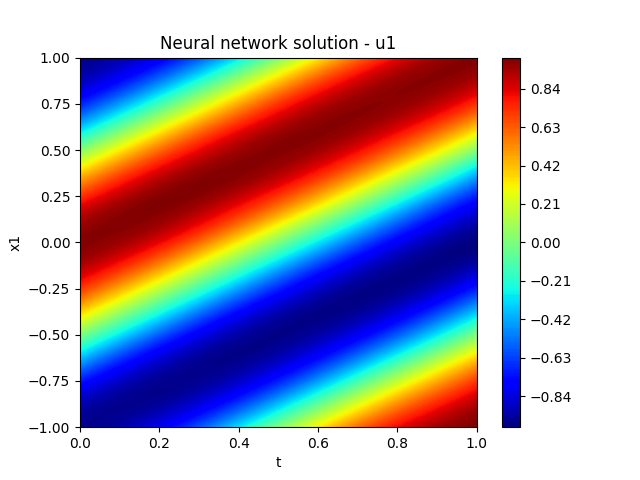
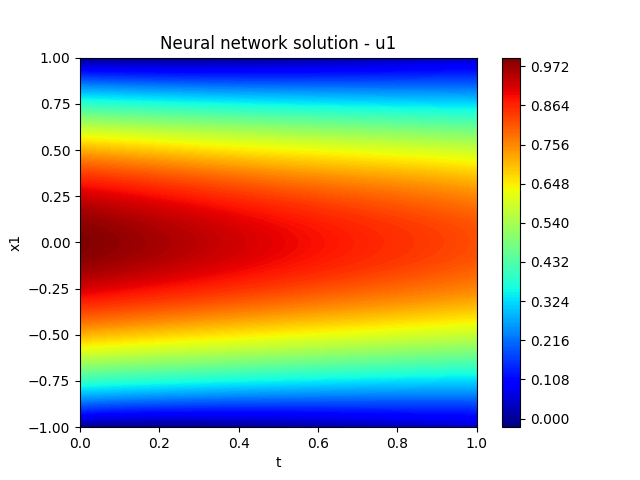
system additions

diff --git a/src/pinnde/plotters/plottersPinnPredictions.py b/src/pinnde/plotters/plottersPinnPredictions.py
@@ -41,21 +41,36 @@ def plot_solution_prediction_time1D(model):
 def plot_solution_prediction_2D(model):
     network = model.get_network()
     domain = model.get_domain()
+    eqns = model.get_eqns()
     
     X1, X2 = np.meshgrid(np.linspace(domain.get_min_dim_vals()[0], domain.get_max_dim_vals()[0], 200), 
                          np.linspace(domain.get_min_dim_vals()[1], domain.get_max_dim_vals()[1], 200), indexing='ij')
     
     sols = network([np.expand_dims(X1.flatten(), axis=1), np.expand_dims(X2.flatten(), axis=1)])
-    sols = np.reshape(sols, (200, 200))
 
-    plt.figure()
-    plt.contourf(X1, X2, sols, 200, cmap=plt.cm.jet)
-    plt.title('Neural network solution')
-    plt.xlabel('x1')
-    plt.ylabel('x2')
-    plt.colorbar()
-    plt.savefig("PDE-solution-pred")
-    plt.clf()
+    if len(eqns) == 1:
+        sols = np.reshape(sols, (200, 200))
+
+        plt.figure()
+        plt.contourf(X1, X2, sols, 200, cmap=plt.cm.jet)
+        plt.title('Neural network solution')
+        plt.xlabel('x1')
+        plt.ylabel('x2')
+        plt.colorbar()
+        plt.savefig("PDE-solution-pred")
+        plt.clf()
+    
+    elif len(eqns) > 1:
+        for e in range(len(eqns)):
+            globals()[f"sols{e+1}"] = np.reshape(sols[e], (200, 200))
+            plt.figure()
+            plt.contourf(X1, X2, globals()[f"sols{e+1}"], 200, cmap=plt.cm.jet)
+            plt.title(f'Neural network solution - u{e+1}')
+            plt.xlabel('x1')
+            plt.ylabel('x2')
+            plt.colorbar()
+            plt.savefig(f"PDE-solution-pred-u{e+1}")
+            plt.clf()
     return
 
 # def plot_solution_prediction_time2D(model):
@@ -148,50 +163,100 @@ def plot_solution_prediction_time2D(model):
     mask = np.array([domain.isInside(pt) for pt in points])
     mask = mask.reshape(X1.shape)
 
-    max_val = -np.inf
-    min_val = np.inf
-    sols = []
-    
-    for i in range(4):
-        # Get predictions
-        t = np.full_like(X1.flatten(), intervals[i])
-        sol_pred = network([t[:, None], 
-                           X1.flatten()[:, None], 
-                           X2.flatten()[:, None]])
-        sol_pred = sol_pred.numpy().reshape(X1.shape)
+    if len(eqns) == 1:
+        max_val = -np.inf
+        min_val = np.inf
+        sols = []
         
-        # Apply domain mask
-        sol_pred[~mask] = np.nan  # Mask outside domain
+        for i in range(4):
+            # Get predictions
+            t = np.full_like(X1.flatten(), intervals[i])
+            sol_pred = network([t[:, None], 
+                            X1.flatten()[:, None], 
+                            X2.flatten()[:, None]])
+            sol_pred = sol_pred.numpy().reshape(X1.shape)
+            
+            # Apply domain mask
+            sol_pred[~mask] = np.nan  # Mask outside domain
+            
+            sols.append(sol_pred)
+            current_max = np.nanmax(sol_pred)
+            current_min = np.nanmin(sol_pred)
+            if current_max > max_val:
+                max_val = current_max
+            if current_min < min_val:
+                min_val = current_min
+
+        # Plotting setup
+        fig, axes = plt.subplots(2, 2, gridspec_kw={'hspace': 0.5, 'wspace': 0.4})
+        normalizer = Normalize(min_val, max_val)
+        im = cm.ScalarMappable(norm=normalizer, cmap=plt.cm.jet)
+
+        # Plot each time step
+        for i, ax in enumerate(axes.flat):
+            contour = ax.contourf(X1, X2, sols[i], 200, 
+                                cmap=plt.cm.jet, norm=normalizer)
+            ax.set_title(f"t={intervals[i]:.2f}")
+            ax.set_xlabel("x1")
+            ax.set_ylabel("x2")
+            ax.set_aspect('equal')
+            ax.set_xlim(domain.get_min_dim_vals()[0], domain.get_max_dim_vals()[0])
+            ax.set_ylim(domain.get_min_dim_vals()[1], domain.get_max_dim_vals()[1])
+
+        # Add colorbar and titles
+        fig.colorbar(im, ax=axes.ravel().tolist(), pad=0.08)
+        fig.suptitle('Neural network solution', fontsize=14, y=0.98)
+        fig.tight_layout(rect=[0, 0, 1, 0.92])
         
-        sols.append(sol_pred)
-        current_max = np.nanmax(sol_pred)
-        current_min = np.nanmin(sol_pred)
-        if current_max > max_val:
-            max_val = current_max
-        if current_min < min_val:
-            min_val = current_min
+        plt.savefig("PDE-solution-pred")
+        plt.clf()
 
-    # Plotting setup
-    fig, axes = plt.subplots(2, 2, gridspec_kw={'hspace': 0.5, 'wspace': 0.4})
-    normalizer = Normalize(min_val, max_val)
-    im = cm.ScalarMappable(norm=normalizer, cmap=plt.cm.jet)
+    elif len(eqns) > 1:
+        for e in range(len(eqns)):
+            max_val = -np.inf
+            min_val = np.inf
+            sols = []
+            
+            for i in range(4):
+                # Get predictions
+                t = np.full_like(X1.flatten(), intervals[i])
+                sol_pred = network([t[:, None], 
+                                X1.flatten()[:, None], 
+                                X2.flatten()[:, None]])[e]
+                sol_pred = sol_pred.numpy().reshape(X1.shape)
+                
+                # Apply domain mask
+                sol_pred[~mask] = np.nan  # Mask outside domain
+                
+                sols.append(sol_pred)
+                current_max = np.nanmax(sol_pred)
+                current_min = np.nanmin(sol_pred)
+                if current_max > max_val:
+                    max_val = current_max
+                if current_min < min_val:
+                    min_val = current_min
 
-    # Plot each time step
-    for i, ax in enumerate(axes.flat):
-        contour = ax.contourf(X1, X2, sols[i], 200, 
-                             cmap=plt.cm.jet, norm=normalizer)
-        ax.set_title(f"t={intervals[i]:.2f}")
-        ax.set_xlabel("x1")
-        ax.set_ylabel("x2")
-        ax.set_aspect('equal')
-        ax.set_xlim(domain.get_min_dim_vals()[0], domain.get_max_dim_vals()[0])
-        ax.set_ylim(domain.get_min_dim_vals()[1], domain.get_max_dim_vals()[1])
+            # Plotting setup
+            fig, axes = plt.subplots(2, 2, gridspec_kw={'hspace': 0.5, 'wspace': 0.4})
+            normalizer = Normalize(min_val, max_val)
+            im = cm.ScalarMappable(norm=normalizer, cmap=plt.cm.jet)
 
-    # Add colorbar and titles
-    fig.colorbar(im, ax=axes.ravel().tolist(), pad=0.08)
-    fig.suptitle('Neural network solution', fontsize=14, y=0.98)
-    fig.tight_layout(rect=[0, 0, 1, 0.92])
-    
-    plt.savefig("PDE-solution-pred")
-    plt.clf()
+            # Plot each time step
+            for i, ax in enumerate(axes.flat):
+                contour = ax.contourf(X1, X2, sols[i], 200, 
+                                    cmap=plt.cm.jet, norm=normalizer)
+                ax.set_title(f"t={intervals[i]:.2f}")
+                ax.set_xlabel("x1")
+                ax.set_ylabel("x2")
+                ax.set_aspect('equal')
+                ax.set_xlim(domain.get_min_dim_vals()[0], domain.get_max_dim_vals()[0])
+                ax.set_ylim(domain.get_min_dim_vals()[1], domain.get_max_dim_vals()[1])
+
+            # Add colorbar and titles
+            fig.colorbar(im, ax=axes.ravel().tolist(), pad=0.08)
+            fig.suptitle(f'Neural network solution - u{e+1}', fontsize=14, y=0.98)
+            fig.tight_layout(rect=[0, 0, 1, 0.92])
+            
+            plt.savefig(f"PDE-solution-pred-u{e+1}")
+            plt.clf()
     return

diff --git a/src/pinnde/training/pinnTrainSteps.py b/src/pinnde/training/pinnTrainSteps.py
@@ -3,6 +3,7 @@ import numpy as np
 import ast
 
 def trainStep(eqns, clps, bcs, network, boundary):
+    eqns = network.get_eqns()
     dim = boundary.get_domain().get_dim()
     bdry_type = boundary.get_bdry_type()
     bdry_components = boundary.get_domain().get_bdry_components()
@@ -28,19 +29,30 @@ def trainStep(eqns, clps, bcs, network, boundary):
             for col in bcs_group:
                 tape1.watch(col)
 
-            u = tf.cast(network(clps_group), tf.float32)
-    
-            for i in range(dim):
-                globals()[f"x{i+1}"] = tf.cast(clps_group[i], tf.float32)
-                globals()[f"ux{i+1}"] = tf.cast(tape1.gradient(u, clps_group[i]), tf.float32)
-                globals()[f"ux{i+1}x{i+1}"] = tf.cast(tape1.gradient(globals()[f"ux{i+1}"], clps_group[i]), tf.float32)
-                globals()[f"ux{i+1}x{i+1}x{i+1}"] = tf.cast(tape1.gradient(globals()[f"ux{i+1}x{i+1}"], clps_group[i]), tf.float32)
+            if len(eqns) == 1:
+                u = tf.cast(network(clps_group), tf.float32)
+                for i in range(dim):
+                    globals()[f"x{i+1}"] = tf.cast(clps_group[i], tf.float32)
+                    globals()[f"ux{i+1}"] = tf.cast(tape1.gradient(u, clps_group[i]), tf.float32)
+                    globals()[f"ux{i+1}x{i+1}"] = tf.cast(tape1.gradient(globals()[f"ux{i+1}"], clps_group[i]), tf.float32)
+                    globals()[f"ux{i+1}x{i+1}x{i+1}"] = tf.cast(tape1.gradient(globals()[f"ux{i+1}x{i+1}"], clps_group[i]), tf.float32)
+            
+            elif len(eqns) > 1:
+                for e in range(len(eqns)):
+                    globals()[f"u{e+1}"] = tf.cast(network(clps_group), tf.float32)[e]
+                    for i in range(dim):
+                        globals()[f"x{i+1}"] = tf.cast(clps_group[i], tf.float32)
+                        globals()[f"u{e+1}x{i+1}"] = tf.cast(tape1.gradient(globals()[f"u{e+1}"], clps_group[i]), tf.float32)
+                        globals()[f"u{e+1}x{i+1}x{i+1}"] = tf.cast(tape1.gradient(globals()[f"u{e+1}x{i+1}"], clps_group[i]), tf.float32)
+                        globals()[f"u{e+1}x{i+1}x{i+1}x{i+1}"] = tf.cast(tape1.gradient(globals()[f"u{e+1}x{i+1}x{i+1}"], clps_group[i]), tf.float32)
 
         CLPloss = 0
-        parse_tree = ast.parse(eqns[0], mode = "eval")
-        eqnparse = eval(compile(parse_tree, "<string>", "eval"))
-        CLPloss += tf.reduce_mean(tf.square(eqnparse))
-        CLPloss = tf.cast(CLPloss, tf.float32)
+        for e in range(len(eqns)):
+            parse_tree = ast.parse(eqns[e], mode = "eval")
+            eqnparse = eval(compile(parse_tree, "<string>", "eval"))
+            # print(tf.reduce_mean(tf.square(eqnparse)))
+            CLPloss += tf.reduce_mean(tf.square(eqnparse))
+            CLPloss = tf.cast(CLPloss, tf.float32)
 
         BCloss = 0
         # periodic

diff --git a/test.py b/test.py
@@ -40,9 +40,9 @@ import matplotlib.pyplot as plt
 # tre = p.domain.Time_NRect(1, [0], [1], [0,1])
 # bound = p.boundaries.dirichlet(tre, [lambda t, x1: 0+t*0 ])
 # inits = p.initials.initials(tre, [lambda x1: tf.sin(np.pi*x1)])
-# dat = p.data.timededata(tre, bound, inits, 10000, 10, 10)
+# dat = p.data.timededata(tre, bound, inits, 10000, 800, 600)
 # mymodel = p.models.pinn(dat, ["0.08*ux1x1 - ut"])
-# mymodel.train(1)
+# mymodel.train(800)
 # p.plotters.plot_solution_prediction_time1D(mymodel)
 # p.plotters.plot_epoch_loss(mymodel)
 
@@ -83,6 +83,16 @@ import matplotlib.pyplot as plt
 # p.plotters.plot_epoch_loss(mymodel)
 # p.plotters.plot_solution_prediction_time1D(mymodel)
 
+#Burgers
+# tre = p.domain.Time_NRect(1, [-1], [1], [0,1])
+# bound = p.boundaries.dirichlet(tre, [lambda t, x1: 0+t*0 ])
+# inits = p.initials.initials(tre, [lambda x1: -tf.sin(np.pi*x1)])
+# dat = p.data.timededata(tre, bound, inits, 10000, 600, 400)
+# mymodel = p.models.pinn(dat, ["ut+u*ux1-(0.01/np.pi)*ux1x1"])
+# mymodel.train(500)
+# p.plotters.plot_solution_prediction_time1D(mymodel)
+# p.plotters.plot_epoch_loss(mymodel)
+
 
 # test ode
 # tre = p.domain.NRect(1, [0], [1])
@@ -92,14 +102,21 @@ import matplotlib.pyplot as plt
 # mymodel.train(1)
 
 # test system
+# tre = p.domain.Time_NRect(1, [-1], [1], [0, 1])
+# bound = p.boundaries.periodic(tre)
+# inits = p.initials.initials(tre, [[lambda x1: tf.cos(np.pi*x1)], [lambda x1: tf.cos(np.pi*x1)]])
+# dat = p.data.timededata(tre, bound, inits, 12000, 10, 500)
+# mymodel = p.models.pinn(dat, ["u1t+u1x1", "u2t+u2*u2x1-(-0.0025)*u2x1x1x1"])
+# mymodel.train(1500)
+# p.plotters.plot_epoch_loss(mymodel)
+# p.plotters.plot_solution_prediction_time1D(mymodel)
+
+
 tre = p.domain.Time_NRect(1, [-1], [1], [0, 1])
-bound = p.boundaries.periodic(tre)
-inits = p.initials.initials(tre, [[lambda x1: tf.cos(np.pi*x1)], [lambda x1: tf.cos(np.pi*x1)]])
-# inits = p.initials.initials(tre, [[lambda x1: 5+x1*0], [lambda x1: 6+x1*0]])
-dat = p.data.timededata(tre, bound, inits, 12000, 10, 500)
-mymodel = p.models.pinn(dat, ["u1t+u1x1", "u2t+u2*u2x1-(-0.0025)*u2x1x1x1"])
-# mymodel = p.models.pinn(dat, ["u1t+u1x1", "0.0"])
-# mymodel = p.models.pinn(dat, ["0.0", "u2t+u2*u2x1-(-0.0025)*u2x1x1x1"])
+bound = p.boundaries.dirichlet(tre, [lambda t, x1: 0+t*0])
+inits = p.initials.initials(tre, [[lambda x1: tf.sin((np.pi/2)*x1 + (np.pi/2))], [lambda x1: -tf.sin(np.pi*x1)]])
+dat = p.data.timededata(tre, bound, inits, 12000, 1000, 1000)
+mymodel = p.models.pinn(dat, ["0.08*u1x1x1 - u1t", "u2t+u2*u2x1-(0.01/np.pi)*u2x1x1"])
 mymodel.train(1500)
 p.plotters.plot_epoch_loss(mymodel)
 p.plotters.plot_solution_prediction_time1D(mymodel)
